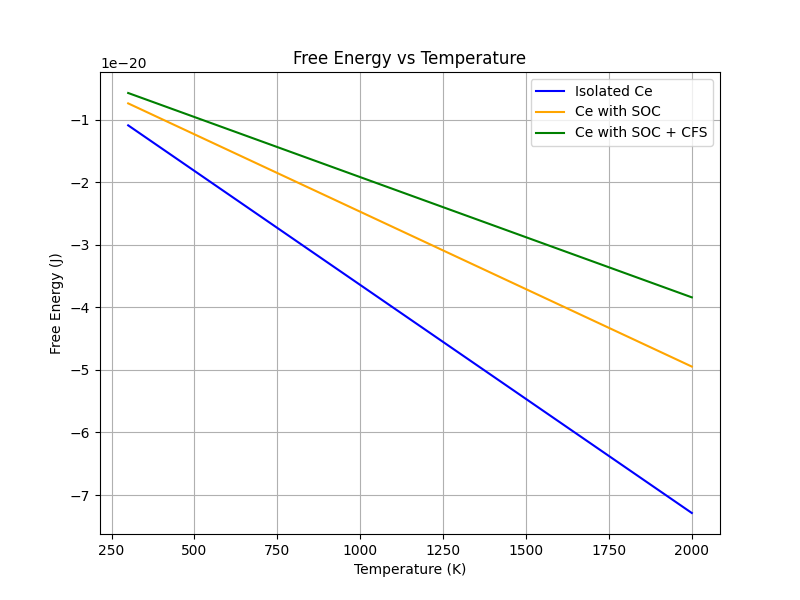
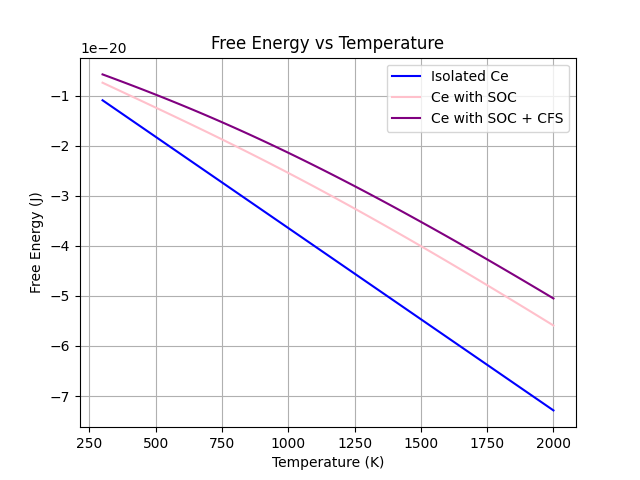
Fixed HW4-2

diff --git a/homework-4-2/ce_thermo.py b/homework-4-2/ce_thermo.py
@@ -1,28 +1,38 @@
 import numpy as np
 import matplotlib.pyplot as plt
 from scipy.constants import k
+import pandas as pd
 
-T = 300
-beta = 1 / (k * T)
+temperatures = np.linspace(300, 2000, 100) 
+beta = 1 / (k * temperatures)
 
 def thermo(Z, T):
     """Calculates Internal Energy, Free Energy, and Entropy based on the partition function of a system
     Parameters:
-        Z: Partition function
+        Z: (nparray) Partition function
+        T: (nparray) temperatures
     Returns:
-        U: float, Internal Energy
-        F: float, free energy
-        S: float, Entropy
+        nparray: Internal Energy
+        nparray: Free energy
+        nparray: Entropy
     """
     # Internal energy (U)
-    U = np.gradient(np.log(Z), 1 / (k * T)) * (-1)
-    #Free Energy (F)
+    U = -np.gradient(np.log(Z), 1 / (k * T))
+    # Free Energy (F)
     F = -k * T * np.log(Z)
-    #Entropy (S)
-    S = np.gradient(F, T) * (-1)
+    # Entropy (S)
+    S = -np.gradient(F, T)
     return U, F, S
 
 def isolated_partition_function(energies, degeneracies, T):
+    """Calculates isolated partition function.
+    Parameters: 
+        energies (list): List of energy values
+        degeneracies (list): List of degeneracies (equal value of energies)
+        T (nparray): array of temepratures over which the partition fn is calculated. 
+    Returns:
+        nparray: Isolated partition function.
+    """
     Z_iso = 0.0
 
     for E, g in zip(energies, degeneracies):
@@ -30,11 +40,19 @@ def isolated_partition_function(energies, degeneracies, T):
     
     return Z_iso
 
-Z_iso = isolated_partition_function(energies = [0]*14, degeneracies= [1]*14, T=300)
-thermo_iso = thermo(Z_iso, T)
+Z_iso = isolated_partition_function(energies = [0]*14, degeneracies= [1]*14, T=temperatures)
+U_i, F_i, S_i = thermo(Z_iso, temperatures)
 
 
 def soc_partition_function(energies, degeneracies, T):
+    """Calculates SOC partition function.
+    Parameters: 
+        energies (list): List of energy values
+        degeneracies (list): List of degeneracies (equal value of energies)
+        T (nparray): array of temepratures over which the partition fn is calculated. 
+    Returns:
+        nparray: SOC partition function.
+    """
     Z_soc = 0.0
 
     for E, g in zip(energies, degeneracies):
@@ -42,10 +60,18 @@ def soc_partition_function(energies, degeneracies, T):
     
     return Z_soc
 
-Z_soc = soc_partition_function(energies = [0]*6 + [4.48609*(10**-20)]*8, degeneracies = [1]*14, T=300)
-thermo_soc = thermo(Z_soc, T)
+Z_soc = soc_partition_function(energies = [0]*6 + [4.48609*(10**-20)]*8, degeneracies = [1]*14, T=temperatures)
+U_soc, F_soc, S_soc = thermo(Z_soc, temperatures)
 
 def cfs_partition_function(energies, degeneracies, T):
+    """Calculates SOC+CFS partition function.
+    Parameters: 
+        energies (list): List of energy values
+        degeneracies (list): List of degeneracies (equal value of energies)
+        T (nparray): array of temepratures over which the partition fn is calculated. 
+    Returns:
+        nparray: SOC+CFS partition function.
+    """
     Z_cfs = 0.0
 
     for E, g in zip(energies, degeneracies):
@@ -53,46 +79,32 @@ def cfs_partition_function(energies, degeneracies, T):
     
     return Z_cfs
 
-Z_cfs = cfs_partition_function(energies = [0]*4 + [1.92261*(10**-20)]*2 + [4.00554*(10**-20)]*2 + [5.12697*(10**-20)]*4 + [7.37001*(10**-20)]*2, degeneracies = [1]*14, T=300)
-thermo_cfs = thermo(Z_cfs, T)
+Z_cfs = cfs_partition_function(energies = [0]*4 + [1.92261*(10**-20)]*2 + [4.00554*(10**-20)]*2 + [5.12697*(10**-20)]*4 + [7.37001*(10**-20)]*2, degeneracies = [1]*14, T=temperatures)
+U_cfs, F_cfs, S_cfs = thermo(Z_cfs, temperatures)
 
+#All these functions do the same, could make one function for calculating the partition function and have different energy inputs (followed instructions to make 3 separate fns, but a way to improve efficiency!)
 
-temperatures = np.linspace(300, 2000, 100) 
+temperatures = np.linspace(300, 2000, 100)  
 
-U_isolated = []
-F_isolated = []
-S_isolated = []
+all_cases = {
+    "U (iso)": U_i,
+    "U (SOC)": U_soc,
+    "U (SOC+CFS)":U_cfs,
+    "F (iso)": F_i, 
+    "F (SOC)": F_soc, 
+    "F (SOC+CFS)": F_cfs,
+    "S (iso)": S_i, 
+    "S (SOC)": S_soc, 
+    "S (SOC+CFS)":S_cfs
+}
 
-U_soc = []
-F_soc = []
-S_soc = []
-
-U_cfs = []
-F_cfs =[]
-S_cfs =[]
-
-for T in temperatures:
-    U_i, F_i, S_i = thermo(Z_iso, T)
-    U_isolated.append(U_i)
-    F_isolated.append(F_i)
-    S_isolated.append(S_i)
-
-    U_s, F_s, S_s = thermo(Z_soc, T)
-    U_soc.append(U_s)
-    F_soc.append(F_s)
-    S_soc.append(S_s)
-
-    U_c, F_c, S_c = thermo(Z_cfs, T)
-    U_cfs.append(U_c)
-    F_cfs.append(F_c)
-    S_cfs.append(S_c)    
-
+df = pd.DataFrame(all_cases, index=temperatures)
+df.to_csv("thermo_prop_ce.csv")
 
 #Plotting Internal Energy
-plt.figure(figsize=(8, 6))
-plt.plot(temperatures, U_isolated, label='Isolated Ce', color='blue')
-plt.plot(temperatures, U_soc, label='Ce with SOC', color='orange')
-plt.plot(temperatures, U_cfs, label='Ce with SOC + CFS', color='green')
+plt.plot(temperatures, U_i, label='Isolated Ce', color='blue')
+plt.plot(temperatures, U_soc, label='Ce with SOC', color='pink')
+plt.plot(temperatures, U_cfs, label='Ce with SOC + CFS', color='purple')
 plt.title('Internal Energy vs Temperature')
 plt.xlabel('Temperature (K)')
 plt.ylabel('Internal Energy (J)')
@@ -100,12 +112,12 @@ plt.legend()
 plt.grid()
 plt.savefig("Internal_Energy.png")  
 plt.show()
+plt.close()
 
 # Plotting Free Energy
-plt.figure(figsize=(8, 6))
-plt.plot(temperatures, F_isolated, label='Isolated Ce', color='blue')
-plt.plot(temperatures, F_soc, label='Ce with SOC', color='orange')
-plt.plot(temperatures, F_cfs, label='Ce with SOC + CFS', color='green')
+plt.plot(temperatures, F_i, label='Isolated Ce', color='blue')
+plt.plot(temperatures, F_soc, label='Ce with SOC', color='pink')
+plt.plot(temperatures, F_cfs, label='Ce with SOC + CFS', color='purple')
 plt.title('Free Energy vs Temperature')
 plt.xlabel('Temperature (K)')
 plt.ylabel('Free Energy (J)')
@@ -113,12 +125,12 @@ plt.legend()
 plt.grid()
 plt.savefig("Free_Energy.png")  
 plt.show()
+plt.close()
 
 # Plotting Entropy
-plt.figure(figsize=(8, 6))
-plt.plot(temperatures, S_isolated, label='Isolated Ce', color='blue')
-plt.plot(temperatures, S_soc, label='Ce with SOC', color='orange')
-plt.plot(temperatures, S_cfs, label='Ce with SOC + CFS', color='green')
+plt.plot(temperatures, S_i, label='Isolated Ce', color='blue')
+plt.plot(temperatures, S_soc, label='Ce with SOC', color='pink')
+plt.plot(temperatures, S_cfs, label='Ce with SOC + CFS', color='purple')
 plt.title('Entropy vs Temperature')
 plt.xlabel('Temperature (K)')
 plt.ylabel('Entropy (J/K)')
@@ -126,5 +138,6 @@ plt.legend()
 plt.grid()
 plt.savefig("Entropy.png") 
 plt.show()
+plt.close()
 
 
